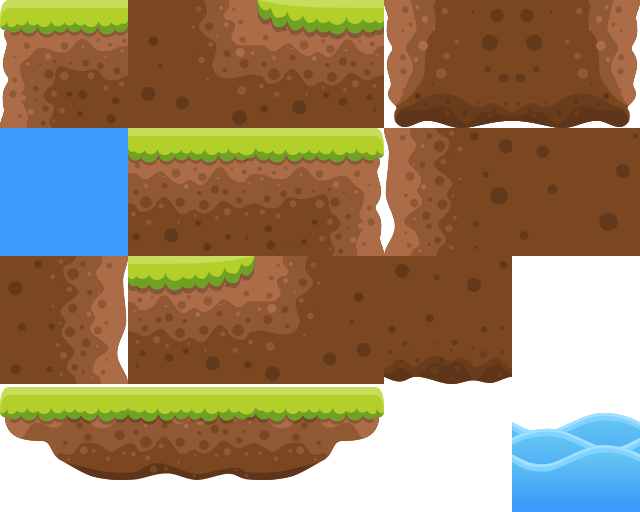
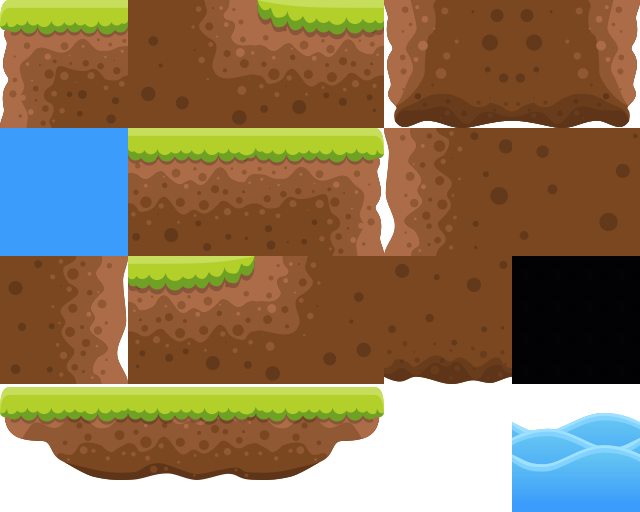
Updated background sheet to add solid black

Changed region(s): [[0.7812, 0.5, 1.0, 0.75]]

diff --git a/assets/black.tsx b/assets/black.tsx
@@ -1,0 +1,4 @@
+<?xml version="1.0" encoding="UTF-8"?>
+<tileset version="1.2" tiledversion="1.3.2" name="black" tilewidth="32" tileheight="32" tilecount="42" columns="6">
+ <image source="download.jpg" width="223" height="226"/>
+</tileset>
